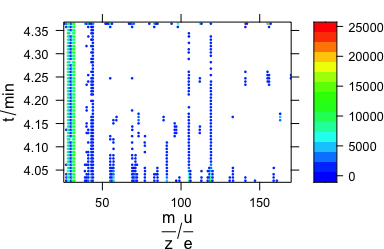
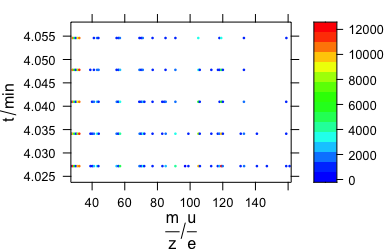
Built site for hyperSpec: 0.99-20200615@2784c2a

diff --git a/dev/reference/collapse.html b/dev/reference/collapse.html
@@ -243,7 +243,7 @@ such groups, <code>collapse()</code> will be faster with this first pass being t
 #&gt;    1. z: t/min [numeric] 4.027184 
 #&gt;    2. z.end: t/min [numeric] 4.027184 
 #&gt;    3. spc: I/"a. u." [matrix, array37] 902 896 ... 562 
-#&gt;    4. filename: filename [character] spc/BARBITUATES.SPC 
+#&gt;    4. filename: filename [character] /home/cb/R/x86_64-pc-linux-gnu-library/3.6/hyperSpec/extdata/BARBITUATES.SPC 
 #&gt; 
 #&gt; [[2]]
 #&gt; hyperSpec object
@@ -255,7 +255,7 @@ such groups, <code>collapse()</code> will be faster with this first pass being t
 #&gt;    1. z: t/min [numeric] 4.034117 
 #&gt;    2. z.end: t/min [numeric] 4.034117 
 #&gt;    3. spc: I/"a. u." [matrix, array34] 857 864 ... 618 
-#&gt;    4. filename: filename [character] spc/BARBITUATES.SPC 
+#&gt;    4. filename: filename [character] /home/cb/R/x86_64-pc-linux-gnu-library/3.6/hyperSpec/extdata/BARBITUATES.SPC 
 #&gt; 
 #&gt; [[3]]
 #&gt; hyperSpec object
@@ -267,7 +267,7 @@ such groups, <code>collapse()</code> will be faster with this first pass being t
 #&gt;    1. z: t/min [numeric] 4.04095 
 #&gt;    2. z.end: t/min [numeric] 4.04095 
 #&gt;    3. spc: I/"a. u." [matrix, array29] 735 1412 ... 638 
-#&gt;    4. filename: filename [character] spc/BARBITUATES.SPC 
+#&gt;    4. filename: filename [character] /home/cb/R/x86_64-pc-linux-gnu-library/3.6/hyperSpec/extdata/BARBITUATES.SPC 
 #&gt; </div><div class='input'><span class='fu'>collapse</span>(<span class='kw'>barbiturates</span> [<span class='fl'>1</span><span class='op'>:</span><span class='fl'>3</span>])</div><div class='output co'>#&gt; hyperSpec object
 #&gt;    3 spectra
 #&gt;    4 data columns
@@ -277,7 +277,7 @@ such groups, <code>collapse()</code> will be faster with this first pass being t
 #&gt;    1. z: t/min [numeric] 4.027184 4.034117 4.040950 
 #&gt;    2. z.end: t/min [numeric] 4.027184 4.034117 4.040950 
 #&gt;    3. spc: I/"a. u." [matrix, array57] 562 NA ... NA + NA
-#&gt;    4. filename: filename [character] spc/BARBITUATES.SPC spc/BARBITUATES.SPC spc/BARBITUATES.SPC </div><div class='input'>
+#&gt;    4. filename: filename [character] /home/cb/R/x86_64-pc-linux-gnu-library/3.6/hyperSpec/extdata/BARBITUATES.SPC /home/cb/R/x86_64-pc-linux-gnu-library/3.6/hyperSpec/extdata/BARBITUATES.SPC /home/cb/R/x86_64-pc-linux-gnu-library/3.6/hyperSpec/extdata/BARBITUATES.SPC </div><div class='input'>
 <span class='kw'>a</span> <span class='op'>&lt;-</span> <span class='kw'>barbiturates</span>[[<span class='fl'>1</span>]]
 <span class='kw'>b</span> <span class='op'>&lt;-</span> <span class='kw'>barbiturates</span>[[<span class='fl'>2</span>]]
 <span class='kw'>c</span> <span class='op'>&lt;-</span> <span class='kw'>barbiturates</span>[[<span class='fl'>3</span>]]
@@ -291,7 +291,7 @@ such groups, <code>collapse()</code> will be faster with this first pass being t
 #&gt;    1. z: t/min [numeric] 4.027184 
 #&gt;    2. z.end: t/min [numeric] 4.027184 
 #&gt;    3. spc: I/"a. u." [matrix, array37] 902 896 ... 562 
-#&gt;    4. filename: filename [character] spc/BARBITUATES.SPC </div><div class='input'><span class='kw'>b</span></div><div class='output co'>#&gt; hyperSpec object
+#&gt;    4. filename: filename [character] /home/cb/R/x86_64-pc-linux-gnu-library/3.6/hyperSpec/extdata/BARBITUATES.SPC </div><div class='input'><span class='kw'>b</span></div><div class='output co'>#&gt; hyperSpec object
 #&gt;    1 spectra
 #&gt;    4 data columns
 #&gt;    34 data points / spectrum
@@ -300,7 +300,7 @@ such groups, <code>collapse()</code> will be faster with this first pass being t
 #&gt;    1. z: t/min [numeric] 4.034117 
 #&gt;    2. z.end: t/min [numeric] 4.034117 
 #&gt;    3. spc: I/"a. u." [matrix, array34] 857 864 ... 618 
-#&gt;    4. filename: filename [character] spc/BARBITUATES.SPC </div><div class='input'><span class='kw'>c</span></div><div class='output co'>#&gt; hyperSpec object
+#&gt;    4. filename: filename [character] /home/cb/R/x86_64-pc-linux-gnu-library/3.6/hyperSpec/extdata/BARBITUATES.SPC </div><div class='input'><span class='kw'>c</span></div><div class='output co'>#&gt; hyperSpec object
 #&gt;    1 spectra
 #&gt;    4 data columns
 #&gt;    29 data points / spectrum
@@ -309,7 +309,7 @@ such groups, <code>collapse()</code> will be faster with this first pass being t
 #&gt;    1. z: t/min [numeric] 4.04095 
 #&gt;    2. z.end: t/min [numeric] 4.04095 
 #&gt;    3. spc: I/"a. u." [matrix, array29] 735 1412 ... 638 
-#&gt;    4. filename: filename [character] spc/BARBITUATES.SPC </div><div class='input'><span class='fu'>collapse</span>(<span class='kw'>a</span>, <span class='kw'>b</span>, <span class='kw'>c</span>)</div><div class='output co'>#&gt; hyperSpec object
+#&gt;    4. filename: filename [character] /home/cb/R/x86_64-pc-linux-gnu-library/3.6/hyperSpec/extdata/BARBITUATES.SPC </div><div class='input'><span class='fu'>collapse</span>(<span class='kw'>a</span>, <span class='kw'>b</span>, <span class='kw'>c</span>)</div><div class='output co'>#&gt; hyperSpec object
 #&gt;    3 spectra
 #&gt;    4 data columns
 #&gt;    57 data points / spectrum
@@ -318,7 +318,7 @@ such groups, <code>collapse()</code> will be faster with this first pass being t
 #&gt;    1. z: t/min [numeric] 4.027184 4.034117 4.040950 
 #&gt;    2. z.end: t/min [numeric] 4.027184 4.034117 4.040950 
 #&gt;    3. spc: I/"a. u." [matrix, array57] 562 NA ... NA + NA
-#&gt;    4. filename: filename [character] spc/BARBITUATES.SPC spc/BARBITUATES.SPC spc/BARBITUATES.SPC </div><div class='input'>
+#&gt;    4. filename: filename [character] /home/cb/R/x86_64-pc-linux-gnu-library/3.6/hyperSpec/extdata/BARBITUATES.SPC /home/cb/R/x86_64-pc-linux-gnu-library/3.6/hyperSpec/extdata/BARBITUATES.SPC /home/cb/R/x86_64-pc-linux-gnu-library/3.6/hyperSpec/extdata/BARBITUATES.SPC </div><div class='input'>
 <span class='fu'>collapse</span>(<span class='kw'>barbiturates</span> [<span class='fl'>1</span><span class='op'>:</span><span class='fl'>3</span>], collapse.equal = <span class='fl'>FALSE</span>)</div><div class='output co'>#&gt; hyperSpec object
 #&gt;    3 spectra
 #&gt;    4 data columns
@@ -328,7 +328,7 @@ such groups, <code>collapse()</code> will be faster with this first pass being t
 #&gt;    1. z: t/min [numeric] 4.027184 4.034117 4.040950 
 #&gt;    2. z.end: t/min [numeric] 4.027184 4.034117 4.040950 
 #&gt;    3. spc: I/"a. u." [matrix, array57] 562 NA ... NA + NA
-#&gt;    4. filename: filename [character] spc/BARBITUATES.SPC spc/BARBITUATES.SPC spc/BARBITUATES.SPC </div></pre>
+#&gt;    4. filename: filename [character] /home/cb/R/x86_64-pc-linux-gnu-library/3.6/hyperSpec/extdata/BARBITUATES.SPC /home/cb/R/x86_64-pc-linux-gnu-library/3.6/hyperSpec/extdata/BARBITUATES.SPC /home/cb/R/x86_64-pc-linux-gnu-library/3.6/hyperSpec/extdata/BARBITUATES.SPC </div></pre>
   </div>
   <div class="col-md-3 hidden-xs hidden-sm" id="pkgdown-sidebar">
     <nav id="toc" data-toggle="toc" class="sticky-top">

diff --git a/dev/reference/barbiturates.html b/dev/reference/barbiturates.html
@@ -164,22 +164,24 @@
     <p>A time series of mass spectra in a list of <code>hyperSpec</code> objects.</p>
     </div>
 
+    <pre class="usage"><span class='kw'>barbiturates</span></pre>
 
 
     <h2 class="hasAnchor" id="format"><a class="anchor" href="#format"></a>Format</h2>
 
-    <p>The data sets consists of 286 spectra. They are the result of importing the
-BARBITUATES.SPC example data from Thermo Galactic's spc file format specification.</p>
+    <p>The data sets consists of a lis of 5 hyperSpec objects with a single
+spectrum each. They are the first five spectra of the BARBITUATES.SPC
+example data from Thermo Galactic's spc file format specification.</p>
     <h2 class="hasAnchor" id="references"><a class="anchor" href="#references"></a>References</h2>
 
-    <p>The raw data is available at <a href='http://hyperspec.r-forge.r-project.org/blob/fileio.zip'>http://hyperspec.r-forge.r-project.org/blob/fileio.zip</a></p>
+    <p>The raw data is available with package hySpc.read.spc.</p>
     <h2 class="hasAnchor" id="author"><a class="anchor" href="#author"></a>Author</h2>
 
     <p>C. Beleites and Thermo Galactic</p>
 
     <h2 class="hasAnchor" id="examples"><a class="anchor" href="#examples"></a>Examples</h2>
     <pre class="examples"><div class='input'>
-<span class='kw'>barbiturates</span>[<span class='fl'>1</span><span class='op'>:</span><span class='fl'>3</span>]</div><div class='output co'>#&gt; [[1]]
+<span class='kw'>barbiturates</span></div><div class='output co'>#&gt; [[1]]
 #&gt; hyperSpec object
 #&gt;    1 spectra
 #&gt;    4 data columns
@@ -189,7 +191,7 @@ BARBITUATES.SPC example data from Thermo Galactic's spc file format specificatio
 #&gt;    1. z: t/min [numeric] 4.027184 
 #&gt;    2. z.end: t/min [numeric] 4.027184 
 #&gt;    3. spc: I/"a. u." [matrix, array37] 902 896 ... 562 
-#&gt;    4. filename: filename [character] spc/BARBITUATES.SPC 
+#&gt;    4. filename: filename [character] /home/cb/R/x86_64-pc-linux-gnu-library/3.6/hyperSpec/extdata/BARBITUATES.SPC 
 #&gt; 
 #&gt; [[2]]
 #&gt; hyperSpec object
@@ -201,7 +203,7 @@ BARBITUATES.SPC example data from Thermo Galactic's spc file format specificatio
 #&gt;    1. z: t/min [numeric] 4.034117 
 #&gt;    2. z.end: t/min [numeric] 4.034117 
 #&gt;    3. spc: I/"a. u." [matrix, array34] 857 864 ... 618 
-#&gt;    4. filename: filename [character] spc/BARBITUATES.SPC 
+#&gt;    4. filename: filename [character] /home/cb/R/x86_64-pc-linux-gnu-library/3.6/hyperSpec/extdata/BARBITUATES.SPC 
 #&gt; 
 #&gt; [[3]]
 #&gt; hyperSpec object
@@ -213,14 +215,38 @@ BARBITUATES.SPC example data from Thermo Galactic's spc file format specificatio
 #&gt;    1. z: t/min [numeric] 4.04095 
 #&gt;    2. z.end: t/min [numeric] 4.04095 
 #&gt;    3. spc: I/"a. u." [matrix, array29] 735 1412 ... 638 
-#&gt;    4. filename: filename [character] spc/BARBITUATES.SPC 
-#&gt; </div><div class='input'><span class='fu'><a href='https://rdrr.io/r/base/length.html'>length</a></span>(<span class='kw'>barbiturates</span>)</div><div class='output co'>#&gt; [1] 286</div><div class='input'>
+#&gt;    4. filename: filename [character] /home/cb/R/x86_64-pc-linux-gnu-library/3.6/hyperSpec/extdata/BARBITUATES.SPC 
+#&gt; 
+#&gt; [[4]]
+#&gt; hyperSpec object
+#&gt;    1 spectra
+#&gt;    4 data columns
+#&gt;    26 data points / spectrum
+#&gt; wavelength: frac(m, z)/frac(u, e) [numeric] 132.95 120.05 ... 28.05 
+#&gt; data:  (1 rows x 4 columns)
+#&gt;    1. z: t/min [numeric] 4.047783 
+#&gt;    2. z.end: t/min [numeric] 4.047783 
+#&gt;    3. spc: I/"a. u." [matrix, array26] 1066 718 ... 10548 
+#&gt;    4. filename: filename [character] /home/cb/R/x86_64-pc-linux-gnu-library/3.6/hyperSpec/extdata/BARBITUATES.SPC 
+#&gt; 
+#&gt; [[5]]
+#&gt; hyperSpec object
+#&gt;    1 spectra
+#&gt;    4 data columns
+#&gt;    22 data points / spectrum
+#&gt; wavelength: frac(m, z)/frac(u, e) [numeric] 158.95 132.95 ... 28.15 
+#&gt; data:  (1 rows x 4 columns)
+#&gt;    1. z: t/min [numeric] 4.0546 
+#&gt;    2. z.end: t/min [numeric] 4.0546 
+#&gt;    3. spc: I/"a. u." [matrix, array22] 704 738 ... 10519 
+#&gt;    4. filename: filename [character] /home/cb/R/x86_64-pc-linux-gnu-library/3.6/hyperSpec/extdata/BARBITUATES.SPC 
+#&gt; </div><div class='input'><span class='fu'><a href='https://rdrr.io/r/base/length.html'>length</a></span>(<span class='kw'>barbiturates</span>)</div><div class='output co'>#&gt; [1] 5</div><div class='input'>
 <span class='kw'>barb</span> <span class='op'>&lt;-</span> <span class='fu'>collapse</span>(<span class='kw'>barbiturates</span>, collapse.equal = <span class='fl'>FALSE</span>)
 <span class='kw'>barb</span> <span class='op'>&lt;-</span> <span class='fu'>orderwl</span>(<span class='kw'>barb</span>)
 
-<span class='fu'><a href='https://rdrr.io/r/graphics/plot.default.html'>plot</a></span>(<span class='kw'>barb</span>[<span class='fl'>1</span><span class='op'>:</span><span class='fl'>3</span>],
+<span class='fu'><a href='https://rdrr.io/r/graphics/plot.default.html'>plot</a></span>(<span class='kw'>barb</span>,
   lines.args = <span class='fu'><a href='https://rdrr.io/r/base/list.html'>list</a></span>(type = <span class='st'>"h"</span>),
-  col = <span class='fu'>matlab.dark.palette</span>(<span class='fl'>3</span>), stacked = <span class='fl'>TRUE</span>,
+  col = <span class='fu'>matlab.dark.palette</span>(<span class='fl'>5</span>), stacked = <span class='fl'>TRUE</span>,
   stacked.args = <span class='fu'><a href='https://rdrr.io/r/base/list.html'>list</a></span>(add.factor = <span class='fl'>.2</span>)
 )</div><div class='img'><img src='barbiturates-1.png' alt='' width='466' height='288' /></div><div class='input'>
 <span class='co'>if</span> (<span class='fu'><a href='https://rdrr.io/r/base/library.html'>require</a></span>(<span class='kw'><a href='http://latticeextra.r-forge.r-project.org'>latticeExtra</a></span>)) {

diff --git a/dev/articles/hyperSpec.html b/dev/articles/hyperSpec.html
@@ -238,7 +238,7 @@ from 100 to 3200 cm<sup>-1</sup> with overlapping wavelength ranges.</td>
 <td align="left"><strong><code>barbiturates</code></strong></td>
 <td align="left">
 GC-MS spectra with differing wavelength axes as a list of
-286 <strong>hyperSpec</strong> objects.</td>
+5 <strong>hyperSpec</strong> objects.</td>
 </tr>
 </tbody>
 </table>
@@ -1076,23 +1076,23 @@ respectively.</p>
 <p>Function <code class="sourceCode r"><span class="kw">collapse</span>()</code> combines objects that should be bound together by row, but they do not share the columns and/or spectral range.
 The resulting object has all columns from all input objects, and all wavelengths from the input objects.
 If an input object does not have a particular column or wavelength, its value in the resulting object is <code class="sourceCode r"><span class="ot">NA</span></code>.</p>
-<p>The <code class="sourceCode r">barbiturates</code> data is a list of 286 <code class="sourceCode r">hyperSpec</code> objects, each containing one mass spectrum.
-The spectra have between 4 and 101 data points each.</p>
+<p>The <code class="sourceCode r">barbiturates</code> data is a list of 5 <code class="sourceCode r">hyperSpec</code> objects, each containing one mass spectrum.
+The spectra have between 22 and 37 data points each.</p>
 <div class="sourceCode" id="cb61"><pre class="downlit">
 <span class="kw">barb</span> <span class="op">&lt;-</span> <span class="fu"><a href="../reference/collapse.html">collapse</a></span>(<span class="kw">barbiturates</span>)
 <span class="fu"><a href="../reference/wl.html">wl</a></span>(<span class="kw">barb</span>)[<span class="fl">1</span><span class="op">:</span><span class="fl">25</span>]
-<span class="co">#&gt;  [1] 25.95 26.05 26.15 26.95 27.05 27.15 28.05 28.15 29.05 29.15 29.95 30.05 30.15 30.25 31.05 31.15</span>
-<span class="co">#&gt; [17] 32.05 32.15 36.90 37.00 38.00 38.10 38.90 39.00 39.10</span>
+<span class="co">#&gt;  [1] 27.05 27.15 28.05 28.15 29.05 30.05 30.15 31.15 32.15 38.90 39.00 40.00 40.10 41.10 43.05 43.85</span>
+<span class="co">#&gt; [17] 43.95 44.05 55.00 55.10 56.00 56.10 57.00 57.10 68.90</span>
 </pre></div>
 <p>The resulting object does not have an ordered wavelength axis.
 This can be obtained in the second step:</p>
 <div class="sourceCode" id="cb62"><pre class="downlit">
 <span class="kw">barb</span> <span class="op">&lt;-</span> <span class="fu"><a href="../reference/orderwl.html">orderwl</a></span>(<span class="kw">barb</span>)
 <span class="kw">barb</span>[[<span class="fl">1</span><span class="op">:</span><span class="fl">3</span>, , <span class="kw">min</span> <span class="op">~</span> <span class="kw">min</span> <span class="op">+</span> <span class="fl">10i</span>]]
-<span class="co">#&gt;      25.95 26.05 26.15 26.95 27.05 27.15 28.05 28.15 29.05 29.15 29.95</span>
-<span class="co">#&gt; [1,]    NA    NA    NA    NA   562    NA    NA 11511  6146    NA    NA</span>
-<span class="co">#&gt; [2,]    NA    NA    NA    NA    NA   618 10151    NA  5040    NA    NA</span>
-<span class="co">#&gt; [3,]    NA    NA    NA    NA   638    NA    NA 10722  5253    NA    NA</span>
+<span class="co">#&gt;      27.05 27.15 28.05 28.15 29.05 30.05 30.15 31.15 32.15 38.9  39</span>
+<span class="co">#&gt; [1,]   562    NA    NA 11511  6146  1253    NA  9851 10751   NA 756</span>
+<span class="co">#&gt; [2,]    NA   618 10151    NA  5040    NA   910  8200 10989   NA 770</span>
+<span class="co">#&gt; [3,]   638    NA    NA 10722  5253   966    NA  8709 10899   NA  NA</span>
 </pre></div>
 </div>
 <div id="sec:merge" class="section level2">
@@ -2805,7 +2805,7 @@ You can also make suggestions in this manner.</p>
   }
 })
 <span class="co">#&gt;    user  system elapsed </span>
-<span class="co">#&gt;   0.049   0.002   0.050</span>
+<span class="co">#&gt;   0.049   0.002   0.051</span>
 </pre></div>
 <p>Calculations that involve a lot of subsetting (i.e., extracting or changing the spectra matrix or extra data) can be sped up considerably if the required parts of the <code class="sourceCode r">hyperSpec</code> object are extracted beforehand.
 This is somewhat similar to model fitting in <code>R</code> in general: many model fitting functions in <code>R</code> are much faster if the formula interface is avoided and the appropriate <code class="sourceCode r">data.frame</code>s or matrices are handed over directly.</p>
@@ -2820,7 +2820,7 @@ This is somewhat similar to model fitting in <code>R</code> in general: many mod
   <span class="kw">tmp</span>[[]] <span class="op">&lt;-</span> <span class="kw">tmp.matrix</span>
 })
 <span class="co">#&gt;    user  system elapsed </span>
-<span class="co">#&gt;   0.009   0.000   0.010</span>
+<span class="co">#&gt;    0.01    0.00    0.01</span>
 </pre></div>
 <!--
 ## Additional packages

diff --git a/dev/reference/textio.html b/dev/reference/textio.html
@@ -572,7 +572,7 @@ of <code><a href='https://rdrr.io/pkg/R.matlab/man/R.matlab-package.html'>R.matl
 #&gt; 
 #&gt; attr(,"header")
 #&gt; attr(,"header")$description
-#&gt; [1] "MATLAB 5.0 MAT-file, Platform: unix, Software: R v4.0.2, Created on: Sun Jul  5 18:52:48 2020                               "
+#&gt; [1] "MATLAB 5.0 MAT-file, Platform: unix, Software: R v4.0.2, Created on: Sun Jul  5 19:05:25 2020                               "
 #&gt; 
 #&gt; attr(,"header")$version
 #&gt; [1] "5"
@@ -604,7 +604,7 @@ of <code><a href='https://rdrr.io/pkg/R.matlab/man/R.matlab-package.html'>R.matl
 #&gt; data:  (6 rows x 3 columns)
 #&gt;    1. spc: I / a.u [matrix, array181] 27.15000 66.80133 ... 294.6495 
 #&gt;    2. c: c/(mg/l) [numeric] 0.05 0.10 ... 0.3 
-#&gt;    3. filename: filename [character] /var/folders/24/8k48jl6d249_n_qfxwsl6xvm0000gn/T//RtmpO1XItq/flu.txt /var/folders/24/8k48jl6d249_n_qfxwsl6xvm0000gn/T//RtmpO1XItq/flu.txt ... /var/folders/24/8k48jl6d249_n_qfxwsl6xvm0000gn/T//RtmpO1XItq/flu.txt </div><div class='input'>
+#&gt;    3. filename: filename [character] /var/folders/24/8k48jl6d249_n_qfxwsl6xvm0000gn/T//Rtmpbi0Maz/flu.txt /var/folders/24/8k48jl6d249_n_qfxwsl6xvm0000gn/T//Rtmpbi0Maz/flu.txt ... /var/folders/24/8k48jl6d249_n_qfxwsl6xvm0000gn/T//Rtmpbi0Maz/flu.txt </div><div class='input'>
 <span class='fu'>write.txt.wide</span>(<span class='kw'>flu</span>,
   file = <span class='fu'><a href='https://rdrr.io/r/base/paste.html'>paste0</a></span>(<span class='fu'><a href='https://rdrr.io/r/base/tempfile.html'>tempdir</a></span>(), <span class='st'>"/flu.txt"</span>),
   cols = <span class='fu'><a href='https://rdrr.io/r/base/c.html'>c</a></span>(<span class='st'>"c"</span>, <span class='st'>"spc"</span>),

diff --git a/dev/articles/baseline.html b/dev/articles/baseline.html
@@ -288,10 +288,10 @@ Thus one should also consider requiring more support points than the default val
 <div class="sourceCode" id="cb5"><pre class="downlit">
 <span class="fu"><a href="https://rdrr.io/r/base/system.time.html">system.time</a></span>(<span class="fu"><a href="../reference/spc.fit.poly.html">spc.fit.poly.below</a></span>(<span class="kw">chondro</span>, <span class="kw">NULL</span>, npts.min = <span class="fl">20</span>))
 <span class="co">#&gt;    user  system elapsed </span>
-<span class="co">#&gt;   0.772   0.034   0.807</span>
+<span class="co">#&gt;   0.778   0.046   0.826</span>
 <span class="fu"><a href="https://rdrr.io/r/base/system.time.html">system.time</a></span>(<span class="fu"><a href="../reference/spc.fit.poly.html">spc.fit.poly.below</a></span>(<span class="kw">chondro</span>[, , <span class="fu"><a href="https://rdrr.io/r/base/c.html">c</a></span>(<span class="kw">min</span> <span class="op">~</span> <span class="fl">700</span>, <span class="fl">1700</span> <span class="op">~</span> <span class="kw">max</span>)], <span class="kw">NULL</span>, npts.min = <span class="fl">20</span>))
 <span class="co">#&gt;    user  system elapsed </span>
-<span class="co">#&gt;   0.403   0.011   0.414</span>
+<span class="co">#&gt;   0.402   0.015   0.416</span>
 </pre></div>
 <p>The choice of the spectral range in <code class="sourceCode r">fit.to</code> influences the resulting baselines to a certain extent, as becomes clear from figure <a href="#fig:spectralrange">2.3</a>.</p>
 </div>

diff --git a/dev/articles/plotting.html b/dev/articles/plotting.html
@@ -1045,7 +1045,7 @@ Figure 6.3: Spectra matrix with added contour lines.
 <div class="sourceCode" id="cb52"><pre class="downlit">
 <span class="fu"><a href="https://rdrr.io/r/base/library.html">library</a></span>(<span class="st"><a href="http://latticeextra.r-forge.r-project.org">"latticeExtra"</a></span>)
 
-<span class="kw">barb</span> <span class="op">&lt;-</span> <span class="fu"><a href="https://rdrr.io/r/base/do.call.html">do.call</a></span>(<span class="kw">collapse</span>, <span class="kw">barbiturates</span>[<span class="fl">1</span><span class="op">:</span><span class="fl">50</span>])
+<span class="kw">barb</span> <span class="op">&lt;-</span> <span class="fu"><a href="../reference/collapse.html">collapse</a></span>(<span class="kw">barbiturates</span>)
 <span class="kw">barb</span> <span class="op">&lt;-</span> <span class="fu"><a href="../reference/orderwl.html">orderwl</a></span>(<span class="kw">barb</span>)
 </pre></div>
 <div class="sourceCode" id="cb53"><pre class="downlit">

diff --git a/dev/articles/fileio.html b/dev/articles/fileio.html
@@ -690,7 +690,7 @@ Function <code class="sourceCode r"><span class="kw">collapse</span>()</code> ma
 <span class="kw">barbiturates</span>
 </pre></div>
 <div class="sourceCode" id="cb27"><pre class="downlit">
-<span class="kw">barbiturates</span>[[<span class="fl">1</span><span class="op">:</span><span class="fl">10</span>, , <span class="fl">25</span> <span class="op">~</span> <span class="fl">30</span>]]
+<span class="kw">barbiturates</span>[[, , <span class="fl">25</span> <span class="op">~</span> <span class="fl">30</span>]]
 </pre></div>
 <div id="deriving-manufacturer-specific-import-filters" class="section level3">
 <h3 class="hasAnchor">
